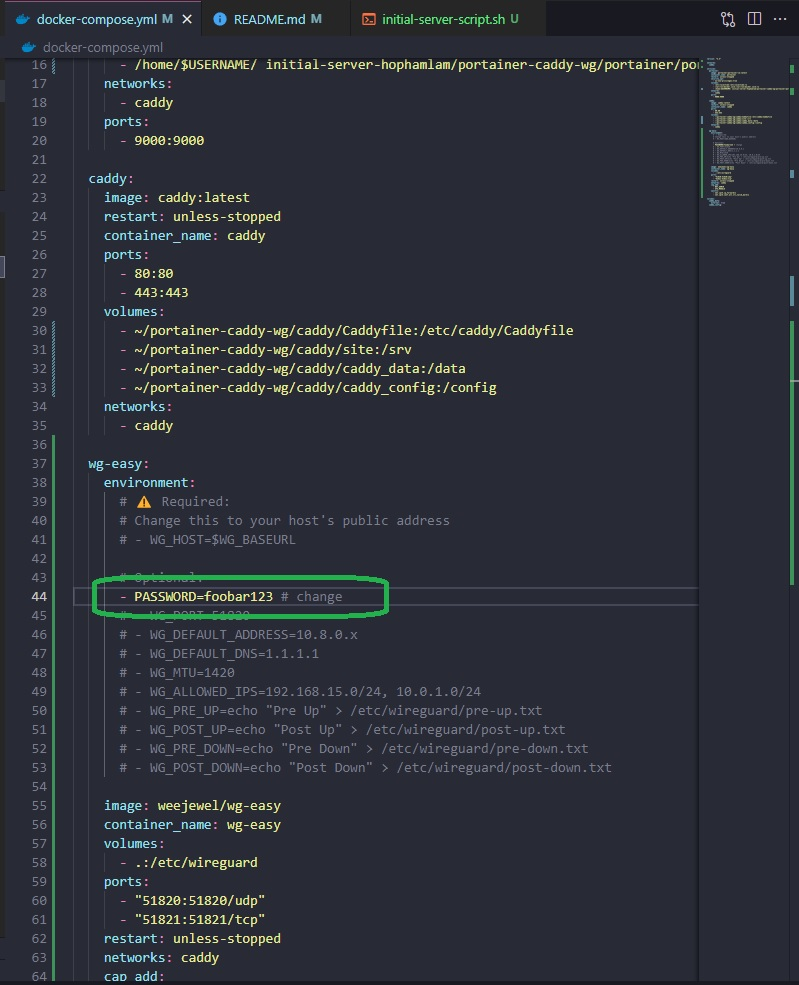
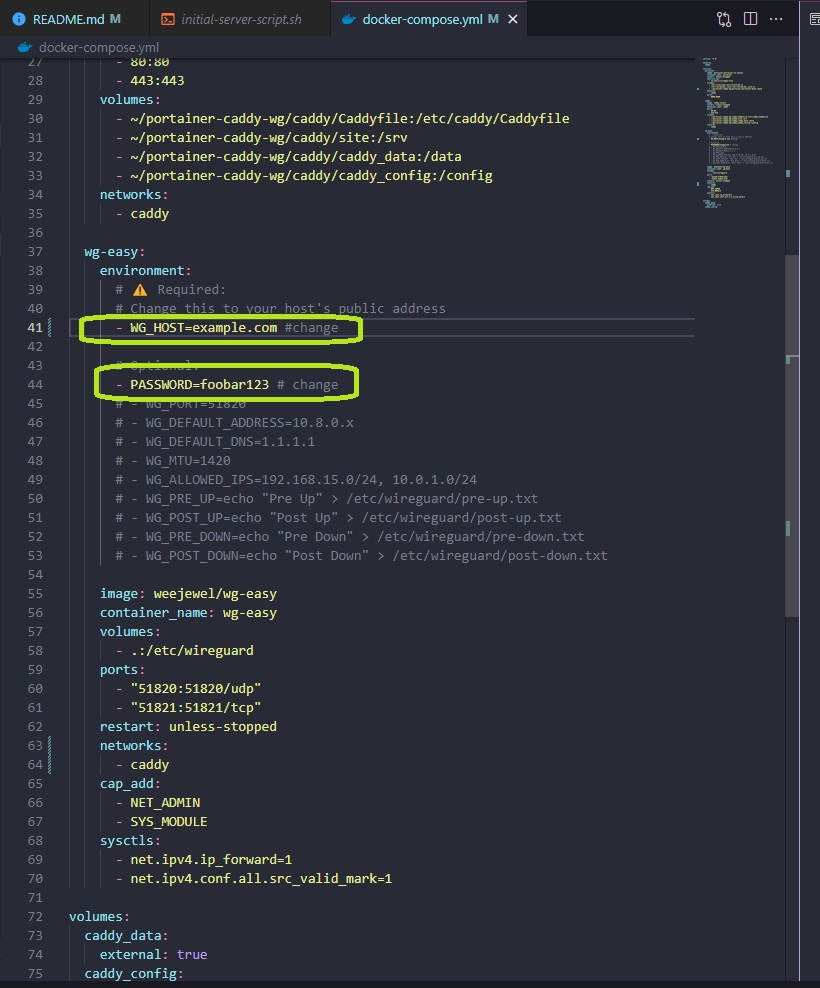
fix bugs & finalize

Changed region(s): [[0.0, 0.0, 0.9912, 1.0], [0.9312, 0.2437, 1.0, 0.6396], [0.8711, 0.0, 1.0, 0.0305]]

diff --git a/README.md b/README.md
@@ -120,11 +120,13 @@ docker --version && docker-compose --version
 
 ## Before you go
 
-Create a Caddyfile:
+Create a Caddyfile & Portainer data
 
 ```bash
+sudo docker volume create --name=caddy_data # Create caddy data
 sudo mkdir ~/portainer-caddy-wg
 sudo mkdir ~/portainer-caddy-wg/caddy
+sudo mkdir ~/portainer-caddy-wg/portainer
 sudo nano ~/portainer-caddy-wg/caddy/Caddyfile
 ```
 
@@ -139,14 +141,17 @@ reverse_proxy portainer:9000 # Reverse proxy to Portainer container example
 ## 1 script to Install [Portainer CE](https://docs.portainer.io/start/install-ce) & [Caddy-server](https://caddyserver.com/) & [Wireguard Server](https://github.com/WeeJeWel/wg-easy)
 
 Download docker-compose file and Edit Wireguard server password
-![Alt text](image/wg-password.jpg)
 
 ```bash
 sudo wget https://raw.githubusercontent.com/hophamlam/initial-server-hophamlam/main/docker-compose.yml -P ~/portainer-caddy-wg/ && sudo nano ~/portainer-caddy-wg/docker-compose.yml
 ```
 
+![Alt text](image/wg-password.jpg)
+
+**Now we go**
+
 ```bash
-bash ~/portainer-caddy-wg/docker compose up -d
+docker-compose -f ~/portainer-caddy-wg/docker-compose.yml up -d
 ```
 
 ## Modify `Caddyfile`
